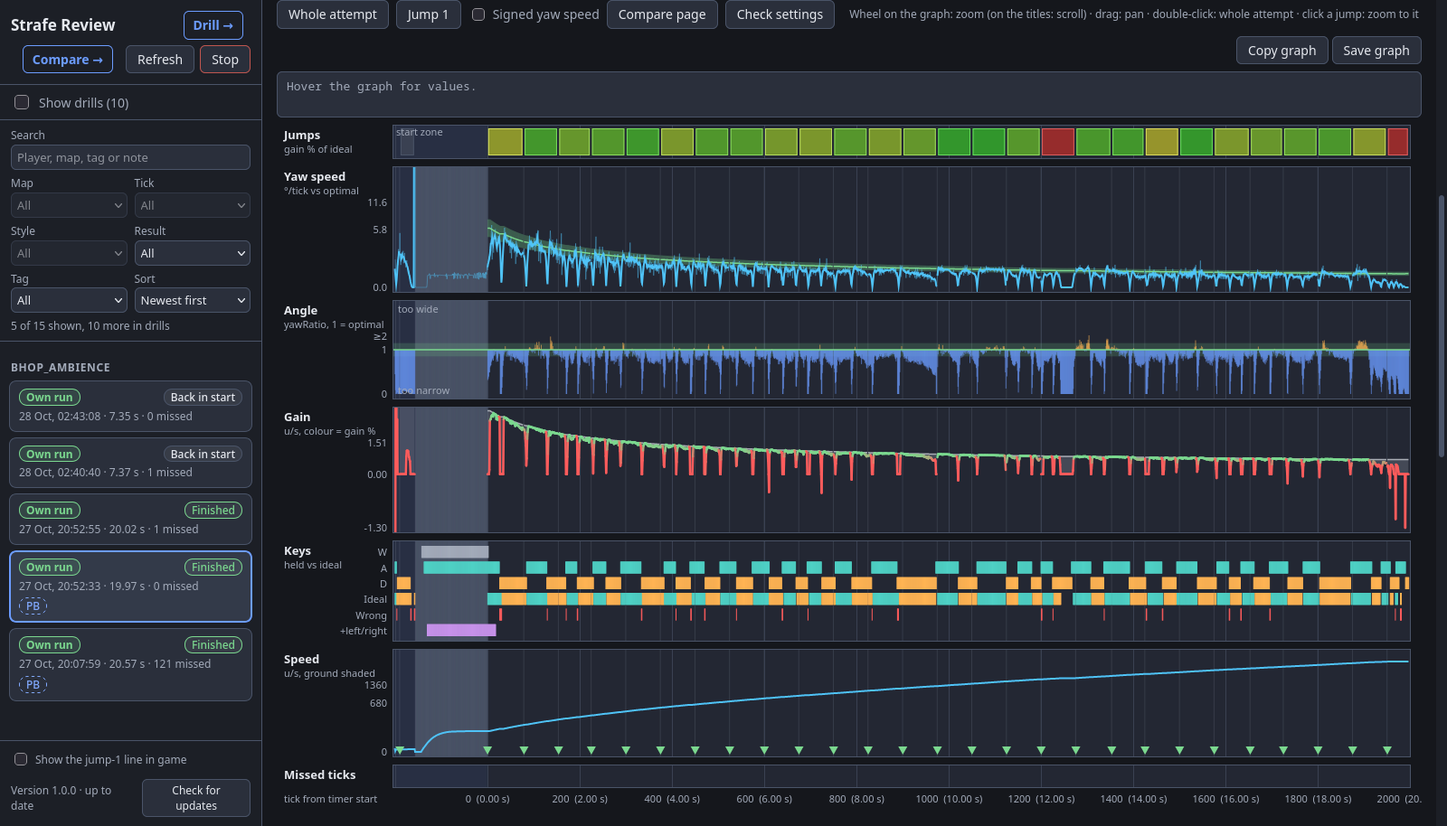
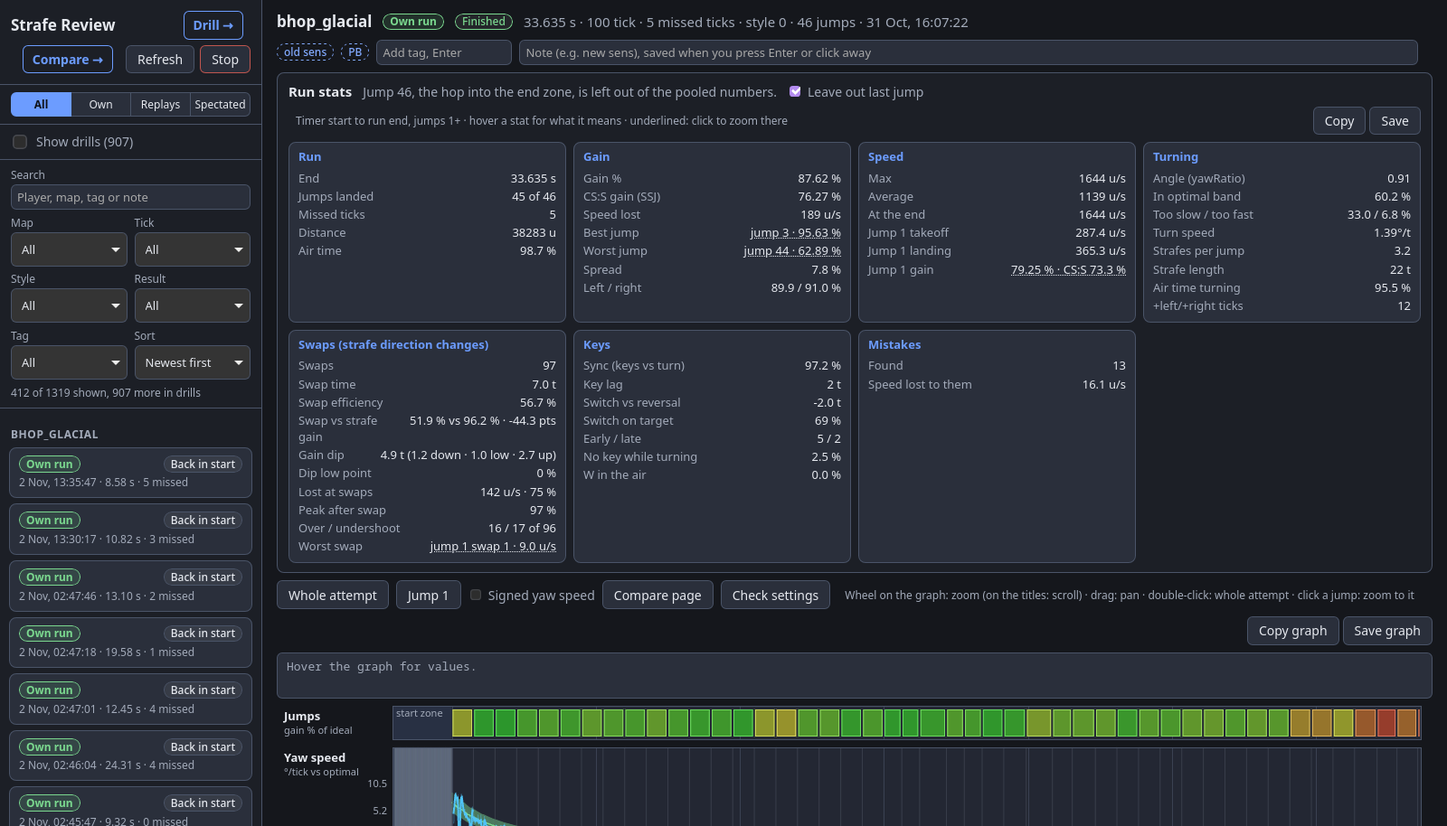
feat!: HUD settings move to the kit's folder, review page loses the jump-1 toggle (3.9)
hud/settings.py keeps the values in <data>/movekit/hud.json and reads
Strafe Review's old settings.json until the first save there, leaving
the old file alone for pre-bridge exes. The review page's sidebar
toggle and /api/settings are gone; the hub's HUD section is the only
place to set the line. Core 1.1.0, Strafe Review 1.7.0. The module
checks take the core version from CORE_VERSION.

diff --git a/strafe-review/viewer/static/index.html b/strafe-review/viewer/static/index.html
@@ -29,9 +29,6 @@
 		<div class="f-foot"><span id="f-count" class="muted"></span><button id="f-clear" title="Show every attempt again">Clear filters</button></div>
 	</div>
 	<div id="list"></div>
-	<div class="side-foot">
-		<div id="ingame"></div>
-	</div>
 </aside>
 <main id="main">
 	<header id="head"><span class="muted">Pick an attempt on the left.</span></header>
@@ -111,6 +108,5 @@
 <script src="/static/status.js"></script>
 <script src="/static/app.js"></script>
 <script src="/static/stop.js"></script>
-<script src="/static/ingame.js"></script>
 </body>
 </html>

diff --git a/strafe-review/recorder/panorama/scripts/hud/strafe-review.ts b/strafe-review/recorder/panorama/scripts/hud/strafe-review.ts
@@ -371,7 +371,7 @@ function onTargetChange(why: string) {
 
 const LINE_TAG = 'SRLINE';
 // Off by default, so it never lands on top of someone's own HUD. install.py rewrites this line from the
-// viewer's "Show the jump-1 line in game" switch; the SRLINE log line is written either way.
+// hub's HUD section ("Show the jump-1 line in game"); the SRLINE log line is written either way.
 const SHOW_LINE = false;
 const SHOW = { landing: true, gain: true, strafes: true, cause: true, mistake: true };
 const LINE_SECONDS = 4;

diff --git a/strafe-review/viewer/static/style.css b/strafe-review/viewer/static/style.css
@@ -307,7 +307,3 @@ body.stopped { align-items: center; justify-content: center; }
 .status-row.bad { border-color: #c0564f; }
 .status-row.bad b { color: #e06c64; }
 
-/* sidebar foot on the main page (the in-game line toggle, ingame.js) */
-#ingame { display: grid; gap: 6px; }
-.side-foot { margin-top: auto; padding: 10px 12px; border-top: 1px solid var(--border); display: grid; gap: 6px; font-size: 12px; }
-.upd-auto { display: flex; align-items: center; gap: 6px; color: var(--muted); cursor: pointer; }

diff --git a/strafe-review/viewer/server.py b/strafe-review/viewer/server.py
@@ -28,9 +28,6 @@ Routes:
                              last change), what the collector has seen, its last error, and
                              the movekit session's status if this process hosts it (else null)
   /api/events                server-sent events: "attempt" with {dir, id} when a new attempt is saved
-  GET /api/settings          {"inGameLine": bool}
-  POST /api/settings         {"inGameLine": bool}: saved, and written into the installed recorder
-                             (answers {"applied": false} when it isn't installed)
   POST /api/stop             stops this program (the page's Stop button); it starts again with the game
                              or by hand
   POST /api/meta/<map>/<id>  {"note": str, "tags": [str]}: sets the attempt's note and tags, answers
@@ -51,10 +48,9 @@ from pathlib import Path
 
 sys.path[:0] = [str(Path(__file__).resolve().parent.parent / "collector"), str(Path(__file__).resolve().parent.parent)]
 import collector
-import install
 
-from hud import settings as hud_settings  # collector set the path to the repo root
-from movekit import attempts as attempt_files  # and so to movekit
+# collector set the path to the repo root, and so to movekit
+from movekit import attempts as attempt_files
 from movekit import session
 
 STATIC = collector.ROOT / "viewer" / "static"
@@ -349,20 +345,6 @@ class Handler(BaseHTTPRequestHandler):
 
     def do_POST(self):
         parts = self.path.split("?", 1)[0].strip("/").split("/")
-        if parts == ["api", "settings"]:
-            if not self.local_request():
-                return self.fail(403, "forbidden")
-            try:
-                size = int(self.headers.get("Content-Length") or 0)
-                body = json.loads(self.rfile.read(size)) if 0 < size <= MAX_BODY else None
-                line = body["inGameLine"]
-                if not isinstance(line, bool):
-                    raise TypeError
-            except (ValueError, TypeError, KeyError):
-                return self.fail(400, 'expected {"inGameLine": true or false}')
-            hud_settings.save("inGameLine", line)
-            applied = bool(MOM_DIR) and install.apply_settings(MOM_DIR)
-            return self.send(200, json.dumps({**hud_settings.load(), "applied": applied}).encode(), "application/json")
         if parts == ["api", "stop"]:
             if not self.local_request():
                 return self.fail(403, "forbidden")
@@ -410,8 +392,6 @@ class Handler(BaseHTTPRequestHandler):
             return self.send(200, TOKENS.read_bytes(), "text/css; charset=utf-8")
         elif parts == ["api", "events"]:
             return self.events()
-        elif parts == ["api", "settings"]:
-            return self.send(200, json.dumps({"inGameLine": hud_settings.get("inGameLine")}).encode(), "application/json")
         elif parts == ["api", "status"]:
             return self.send(200, json.dumps(status(self)).encode(), "application/json")
         elif parts == ["api", "mouse"]:

diff --git a/movekit/check_modules.py b/movekit/check_modules.py
@@ -70,6 +70,9 @@ os.environ["MODCHECK_OUT"] = str(OUT)
 
 from movekit import modules  # after the path and environment above
 
+CORE = modules.CORE_VERSION
+_major, _minor, *_ = CORE.split(".")
+NEXT_CORE = f"{_major}.{int(_minor) + 1}.0"  # a hub-v* release newer than this core
 HOOK_NAMES = {"install", "uninstall", "stop", "start", "launch"}
 ALLOWED = (set(sys.stdlib_module_names) - {"tkinter", "turtle", "idlelib", "test", "ensurepip"}) \
     | {"movekit", "hud", "webview", "__future__"}
@@ -313,7 +316,7 @@ def check_manager():
 
     gh.release("alpha-v1.0.0", "alpha-module.zip", module_zip("alpha", "1.0.0"))
     gh.release("beta-v1.0.0", "beta-module.zip", module_zip("beta", "1.0.0", needs=["alpha"]))
-    gh.release("hub-v1.0.0")
+    gh.release(f"hub-v{CORE}")
     latest = mgr.check(force=True)
     expect(sorted(latest), ["alpha", "beta", "core"], "lines found")
     expect(latest["alpha"]["tag"], "alpha-v1.0.0", "alpha's newest release")
@@ -321,7 +324,7 @@ def check_manager():
     card = mgr.info("alpha")
     expect((card["installed"], card["can_install"], card["auto"]), (False, True, False),
            "alpha's card before install")
-    expect(mgr.info("core")["update"], False, "core 1.0.0 against hub-v1.0.0")
+    expect(mgr.info("core")["update"], False, f"core {CORE} against hub-v{CORE}")
 
     raises(lambda: mgr.install("beta"), "needs alpha", "beta before alpha")
     expect((kit / "beta").exists(), False, "beta's folder after the refused install")
@@ -392,11 +395,11 @@ def check_manager():
     # update_all takes every module with an update, then the core
     gh.release("alpha-v1.5.0", "alpha-module.zip", module_zip("alpha", "1.5.0"))
     gh.release("beta-v1.1.0", "beta-module.zip", module_zip("beta", "1.1.0", needs=["alpha"]))
-    gh.release("hub-v1.1.0")
+    gh.release(f"hub-v{NEXT_CORE}")
     mgr.check(force=True)
     expect(mgr.update_all(), {"alpha": None, "beta": None, "core": None}, "update_all")
     expect((mgr.version("alpha"), mgr.version("beta")), ("1.5.0", "1.1.0"), "versions after update_all")
-    expect([c["tag"] for c in core_installs], ["hub-v1.1.0"], "core installer calls")
+    expect([c["tag"] for c in core_installs], [f"hub-v{NEXT_CORE}"], "core installer calls")
     calls()
 
     # a swap that fails halfway (Windows: a file still in use) puts everything back

diff --git a/hud/check_hud.py b/hud/check_hud.py
@@ -42,9 +42,31 @@ def main():
         from movekit import hub
 
         # the store
-        expect(settings.file(), tmp / "data" / "strafe-review" / "settings.json", "settings file")
+        expect(settings.file(), tmp / "data" / "movekit" / "hud.json", "settings file")
+        old = tmp / "data" / "strafe-review" / "settings.json"
+        expect(settings.old_file(), old, "old settings file")
         expect(settings.load(), {"inGameLine": False}, "defaults with no file")
-        settings.file().parent.mkdir(parents=True)
+
+        # the old file (Strafe Review's data folder) counts until hud.json exists, and stays as it was
+        old.parent.mkdir(parents=True)
+        old.write_text("{not json")
+        expect(settings.get("inGameLine"), False, "a broken old file reads as defaults")
+        old.write_text('{"inGameLine": true, "kept": 1}')
+        expect(settings.get("inGameLine"), True, "value from the old file")
+        expect(settings.file().exists(), False, "reading doesn't write hud.json")
+        settings.save("inGameLine", False)
+        expect(json.loads(settings.file().read_text()), {"inGameLine": False, "kept": 1}, "first save carries the old keys")
+        expect(old.read_text(), '{"inGameLine": true, "kept": 1}', "old file after the first save")
+        old.write_text('{"inGameLine": true}')
+        expect(settings.get("inGameLine"), False, "the old file is ignored once hud.json exists")
+        settings.file().unlink()
+        old.unlink()
+        if (tmp / "data" / "strafe-review").exists():
+            (tmp / "data" / "strafe-review").rmdir()
+        settings.save("inGameLine", False)
+        expect((tmp / "data" / "strafe-review").exists(), False, "saving doesn't make Strafe Review's folder")
+        settings.file().unlink()
+        settings.file().parent.mkdir(parents=True, exist_ok=True)
         settings.file().write_text("{not json")
         expect(settings.get("inGameLine"), False, "a broken file reads as defaults")
         settings.file().write_text('{"inGameLine": "yes", "other": 3}')

diff --git a/movekit/check_linux_core.py b/movekit/check_linux_core.py
@@ -42,6 +42,8 @@ os.environ.pop("MOVEKIT_MODULES_API", None)
 from movekit import hub, launch, modules, paths  # after the environment above
 
 KIT = modules.core_kit()
+_major, _minor, _patch = modules.CORE_VERSION.split(".")
+NEXT_CORE = f"{_major}.{_minor}.{int(_patch) + 1}"  # a hub-v* release newer than this core
 BIN = Path(os.environ["HOME"]) / ".local" / "bin" / "movekit-run"
 
 
@@ -194,7 +196,7 @@ def check_launch_link():
 
 def check_core_update(gh):
     # a source archive like GitHub's: one top folder holding the repo, here with a marked core
-    src = TMP / "src" / "movement-kit-hub-v1.0.1"
+    src = TMP / "src" / f"movement-kit-hub-v{NEXT_CORE}"
     for d in ("movekit", "hud"):
         shutil.copytree(REPO / d, src / d, ignore=shutil.ignore_patterns("__pycache__"))
     shutil.copy(REPO / "LICENSE", src / "LICENSE")
@@ -202,9 +204,9 @@ def check_core_update(gh):
     buf = io.BytesIO()
     with tarfile.open(fileobj=buf, mode="w:gz") as tar:
         tar.add(src, arcname=src.name)
-    gh.add("hub-v1.0.1", tarball_url=None)
-    gh.releases[0]["tarball_url"] = gh.base + "/source/hub-v1.0.1.tar.gz"
-    gh.files["/source/hub-v1.0.1.tar.gz"] = buf.getvalue()
+    gh.add(f"hub-v{NEXT_CORE}", tarball_url=None)
+    gh.releases[0]["tarball_url"] = gh.base + f"/source/hub-v{NEXT_CORE}.tar.gz"
+    gh.files[f"/source/hub-v{NEXT_CORE}.tar.gz"] = buf.getvalue()
     keep = KIT / "keepme"
     keep.mkdir()
     (keep / "module.json").write_text("{}")
@@ -218,7 +220,7 @@ def check_core_update(gh):
         fail("the core update didn't copy the new core")
     if not (keep / "module.json").is_file():
         fail("the core update removed a module folder")
-    expect(mgr.state["modules"]["core"].get("installed"), "hub-v1.0.1", "the core update is marked")
+    expect(mgr.state["modules"]["core"].get("installed"), f"hub-v{NEXT_CORE}", "the core update is marked")
     expect(BIN.resolve(), (KIT / "movekit" / "movekit-run").resolve(), "movekit-run after the core update")
     shutil.rmtree(keep)
     gh.releases.clear()

diff --git a/hud/settings.py b/hud/settings.py
@@ -3,10 +3,11 @@
 Keys (bool unless noted; DEFAULTS has each one's value when unset):
   inGameLine   Strafe Review's recorder shows the jump-1 line (landing speed, gain, mistakes)
 
-The file is settings.json in Strafe Review's data folder (%LOCALAPPDATA%\\strafe-review on Windows,
-~/.local/share/strafe-review elsewhere), where the review page kept it before hud/ took it over.
-Installed strafe-review v1.5.0 exes read and write it there, so it stays until the hub release
-(PLAN.md 3.7). Keys this module doesn't know are kept as they are.
+The file is hud.json in the kit's data folder (%LOCALAPPDATA%\\movekit on Windows,
+~/.local/share/movekit elsewhere). Until the first save there, the values come from the old file,
+settings.json in Strafe Review's data folder, where the review page kept them before the HUD
+took them over (PLAN.md 3.9). The old file is left alone: a strafe-review v1.5.0 exe that hasn't
+updated yet still reads it. Keys this module doesn't know are kept as they are.
 
 Saving only stores a value; the tool that draws it writes it into the game (for the jump-1 line:
 strafe-review/recorder_settings.py).
@@ -20,12 +21,18 @@ DEFAULTS = {"inGameLine": False}
 
 
 def file():
+    return paths.data_dir("movekit") / "hud.json"
+
+
+def old_file():
+    """Where the values were kept before hud.json; read only while hud.json doesn't exist."""
     return paths.data_dir("strafe-review") / "settings.json"
 
 
 def _stored():
+    path = file() if file().exists() else old_file()
     try:
-        got = json.loads(file().read_text(encoding="utf-8"))
+        got = json.loads(path.read_text(encoding="utf-8"))
         return got if isinstance(got, dict) else {}
     except (OSError, ValueError):
         return {}

diff --git a/strafe-review/collector/collector.py b/strafe-review/collector/collector.py
@@ -36,7 +36,7 @@ def _bundled():
 
 # Strafe Review's folder, or the old exe's unpacked bundle (it holds recorder/ and viewer/static/ the same way)
 ROOT = Path(sys._MEIPASS) if _bundled() else Path(__file__).resolve().parent.parent
-VERSION = "1.6.0"  # Strafe Review's (module.json reads it); bump in the same commit as the release tag
+VERSION = "1.7.0"  # Strafe Review's (module.json reads it); bump in the same commit as the release tag
 GAME = steam.find_game()  # None if Momentum isn't found; then the game folder must be given
 STORE = attempts.store()
 LOG = os.path.join(GAME, "yaw.log") if GAME else None  # con_logfile, shared with Source Yaw's yaws.cfg

diff --git a/hub/hub_release.py b/hub/hub_release.py
@@ -5,6 +5,6 @@ The installed file keeps its name: a copy that came from Strafe Review's line is
 strafe-review.exe, because Steam's launch option points at that path; the core update takes EXE from
 the zip and puts it in under the running exe's name.
 """
-VERSION = "1.0.0"  # bump in the same commit as the hub-v* tag
+VERSION = "1.1.0"  # bump in the same commit as the hub-v* tag
 ASSET = "hub-windows.zip"  # windows-release.yml names the zip <tool>-windows.zip
 EXE = "movement-kit.exe"

diff --git a/movekit/modules.py b/movekit/modules.py
@@ -71,7 +71,7 @@ from pathlib import Path
 
 from movekit import paths, updater
 
-CORE_VERSION = "1.0.0"  # the hub-v* line; hub/hub_release.py's VERSION must match (check_modules)
+CORE_VERSION = "1.1.0"  # the hub-v* line; hub/hub_release.py's VERSION must match (check_modules)
 CORE = "core"
 CORE_PREFIX = "hub-v"
 CORE_ASSET = "hub-windows.zip"  # the core exe's release zip (Windows); Linux installs the source

diff --git a/PLAN.md b/PLAN.md
@@ -1,6 +1,6 @@
 # Soulmanyes's Movement Kit: plan
 
-Status (2026-11-02): Phase 0 done locally (the three repos merged with full history, tags renamed `<tool>-v*`, privacy hooks in place; no GitHub repo yet). Phase 1 nearly done locally: Steam/game discovery, autoexec blocks, VPK reading, bind parsing and the updater are in `movekit`, release CI sits at the root, and the root has a README and a CC0 LICENSE (see "Progress"). On GitHub since 2026-11-02, public since 2026-11-02 (via `/go-public`). The live installs run from the monorepo since 2026-11-02, and both tools write `// movekit:<tool>` blocks. Bridge releases out 2026-11-02 (Source Yaw v1.5.2, Strafe Review v1.4.1; the kit's first releases sourceyaw-v1.6.0, strafe-review-v1.5.0, gain-converter-v1.1.0). Left: archiving the old repos once a real install has moved. Phase 2 started: 2.1 (yaw.log reading, `movekit/logtail.py`) 2.2 (session core, `movekit/session.py`) and 2.3 (the Strafe Review server hosts the session and announces saved attempts) and 2.4 (the trainer and the crosshair watcher on the session, live) done. 2.5 (`movekit-run`, one launch option) done and live. 2.6 (attempt format 1 documented in `strafe-review/FORMAT.md`, reader `movekit/attempts.py`) done. Phase 3 (hub app): toolkit decided (pywebview settings window, review page stays in the browser), steps 3.1–3.8 OK'd; 3.1 (shell), 3.2 (Gain Converter section), 3.3 (HUD section), 3.4 (Strafe Review section), 3.5 (Source Yaw logic out of the window) and 3.6 (Source Yaw section, awaiting the owner's click test) done 2026-11-02; 3.7 and 3.7b (modules) released 2026-11-02 (`hub-v1.0.0`, every tool as a module). 3.8 (retire the old windows) released 2026-11-02 (`sourceyaw-v1.8.0`, `gain-converter-v1.3.0`). Left: the Windows hand test, the review page's jump-1 toggle, archiving the old repos.
+Status (2026-11-02): Phase 0 done locally (the three repos merged with full history, tags renamed `<tool>-v*`, privacy hooks in place; no GitHub repo yet). Phase 1 nearly done locally: Steam/game discovery, autoexec blocks, VPK reading, bind parsing and the updater are in `movekit`, release CI sits at the root, and the root has a README and a CC0 LICENSE (see "Progress"). On GitHub since 2026-11-02, public since 2026-11-02 (via `/go-public`). The live installs run from the monorepo since 2026-11-02, and both tools write `// movekit:<tool>` blocks. Bridge releases out 2026-11-02 (Source Yaw v1.5.2, Strafe Review v1.4.1; the kit's first releases sourceyaw-v1.6.0, strafe-review-v1.5.0, gain-converter-v1.1.0). Left: archiving the old repos once a real install has moved. Phase 2 started: 2.1 (yaw.log reading, `movekit/logtail.py`) 2.2 (session core, `movekit/session.py`) and 2.3 (the Strafe Review server hosts the session and announces saved attempts) and 2.4 (the trainer and the crosshair watcher on the session, live) done. 2.5 (`movekit-run`, one launch option) done and live. 2.6 (attempt format 1 documented in `strafe-review/FORMAT.md`, reader `movekit/attempts.py`) done. Phase 3 (hub app): toolkit decided (pywebview settings window, review page stays in the browser), steps 3.1–3.8 OK'd; 3.1 (shell), 3.2 (Gain Converter section), 3.3 (HUD section), 3.4 (Strafe Review section), 3.5 (Source Yaw logic out of the window) and 3.6 (Source Yaw section, awaiting the owner's click test) done 2026-11-02; 3.7 and 3.7b (modules) released 2026-11-02 (`hub-v1.0.0`, every tool as a module). 3.8 (retire the old windows) released 2026-11-02 (`sourceyaw-v1.8.0`, `gain-converter-v1.3.0`). 3.9 (the HUD's settings move to the kit's folder, the review page's jump-1 toggle goes) built 2026-11-02 on branch `hud-move`. Left: the Windows hand test, archiving the old repos.
 
 ## Goal
 
@@ -118,7 +118,7 @@ Toolkit and split decided by the owner 2026-11-02; steps 3.1–3.8 OK'd the same
 **Steps** (the old windows keep working throughout; checks: the existing ones plus a screenshot check of each new section):
 1. **3.1 Shell.** `movekit/hub.py`, section discovery, the `call` bridge, shared CSS, and `movekit/check_hub.py` (discovery, bridge and OS filter, run without a window). Install `python-pywebview`.
 2. **3.2 Gain Converter section.** The simplest section, so it proves the contract. It settles "gain math in one language": one JS module `movekit/web/gain.js` for every page. (Found in 3.2: the viewer has no copy of the conversion curve; its CSS-SSJ code scores ticks, a different calculation. So `gain.js` serves the section, and `gain_converter.py` keeps its copy until 3.8, held equal by `gain-converter/check_gain.py`.)
-3. **3.3 HUD section.** `hud/` takes over the jump-1 setting. The review page's sidebar toggle stays until the hub ships on Windows (3.7), then goes. (Done in 3.3: the settings file stays in Strafe Review's data folder until 3.7, because installed v1.5.0 exes read and write it there.)
+3. **3.3 HUD section.** `hud/` takes over the jump-1 setting. The review page's sidebar toggle stays until the hub ships on Windows (3.7), then goes. (Done in 3.3: the settings file stays in Strafe Review's data folder until 3.7, because installed v1.5.0 exes read and write it there. Both moved in 3.9.)
 4. **3.4 Strafe Review section.** Status, the updater, "Open review" (starts the server if it's down). (Done in 3.4: the viewer's colours come from `movekit/web/tokens.css`, the one copy.)
 5. **3.5 Source Yaw logic out of the window.** Most of it is already in `yawcore` (`load_settings`, `validate`, `apply`, `key_conflicts`, `set_autoexec`, `install_krosshair`, `recolor`). Still in `app.py`: `check_setup`'s problem text, `base_options`, `collect`, `trainer_value` and the trainer status. They move to `sourceyaw/settings_api.py`, and the GTK app calls it, with no change in behaviour.
 6. **3.6 Source Yaw section** over `settings_api`: key map with fallbacks, colours, sounds and previews. Linux-only for now; a Windows Source Yaw stays a later item.
@@ -342,7 +342,7 @@ Built and checked on Linux and in Windows CI; the `hub-v1.0.0` release, the brid
 Left:
 1. Done 2026-11-02: first Windows test builds passed (hub-windows on branch pushes, strafe-review-windows by hand on the branch: the shared workflow didn't regress). The licence step caught proxy_tools 0.1.0 with no licence file in its wheel; `hub/licenses/proxy-tools-LICENSE.txt` is its upstream LICENSE.txt (BSD), and the collector falls back to such kept copies. The exe also bundles the WebView2 SDK (Core/WinForms wrappers, WebView2Loader.dll; BSD-3, LICENSE and NOTICE from the NuGet package now in `hub/licenses/` and the zip), pywebview's own WebBrowserInterop DLLs, ClrLoader.dll and Python.Runtime.dll (covered by their packages), and the VC++ runtime (covered by PYTHON-LICENSE.txt). The step-2 stderr worry didn't happen. Was: a first test build: push the branch, run Actions > hub-windows by hand. From its log, check the licence list and what's under `webview/lib` (the WebView2 SDK DLLs, whose licence is Microsoft's and not in any package metadata), and fix `THIRD-PARTY-NOTICES.txt` to match. License check before any tag. Also run `strafe-review-windows` by hand, since `windows-release.yml` changed. Only Windows can show: a `--windowed` exe may have no stderr even when piped, so step 2's `"in use" in r.stderr` may fail there (then read `strafe-review.log` instead).
 2. The bridge: the last `strafe-review-v*` release ships the hub exe as `strafe-review.exe` in `strafe-review-windows.zip`, so installed 1.5.0 copies update into the hub. Then `strafe-review-windows.yml` builds with `hub/build.py` and renames the exe. Waits until the first migration (old repo to kit) is confirmed on a real install, as in Phase 1.
-3. After the bridge: move `settings.json` out of Strafe Review's data folder (`hud/settings.py` reads the old file once as a fallback) and take the jump-1 toggle out of the review page's sidebar (3.3).
+3. Done in 3.9: after the bridge, move `settings.json` out of Strafe Review's data folder (`hud/settings.py` reads the old file once as a fallback) and take the jump-1 toggle out of the review page's sidebar (3.3).
 4. Done 2026-11-02: `strafe-review/check_hub_section.py` passed on the branch. At the merge the temporary `branches: ["hub-release"]` push trigger came out of `hub-windows.yml`; test builds now go through Actions > hub-windows > Run workflow.
 5. The `hub-v1.0.0` release (ask the owner first). Nobody has tested the hub exe by hand on Windows yet.
 
@@ -460,7 +460,18 @@ The owner said go ahead on 2026-11-02, the same day the hub shipped, without the
 - Versions: Source Yaw 1.8.0, Gain Converter 1.3.0. No Strafe Review or hub change, so no bridge release is needed.
 - Checked: every `check_*.py` and `check_gain.py` passes. A temp HOME with a `sourceyaw-v1.7.0` install, updated by the new `install.sh`: `updater.py` and `icons/` gone, `app.py` is the launcher, the menu entry and `~/.local/bin/sourceyaw` point at it, and `--uninstall` cleans up. The launcher finds both a checkout hub (from the menu entry, with a space in the path) and an installed core. Both module zips built locally: `read_manifest` and `module_version` give 1.8.0 and 1.3.0, and `hub.discover` finds both sections with no problems. Screenshots for both READMEs were retaken from the hub, as floating test windows with a temp HOME and a fake CS:S install.
 - Released 2026-11-02: `sourceyaw-v1.8.0` and `gain-converter-v1.3.0` (module zips only, CI green, notes written by hand); the module manager sees both. A Windows test build of the hub on the branch passed first. The live Source Yaw was reinstalled from main, so its menu entry opens the hub.
-- Left: the jump-1 toggle in the review page's sidebar (PLAN 3.3: goes once the hub ships on Windows), which needs a Strafe Review release with the bridge.
+- Left: the jump-1 toggle in the review page's sidebar (PLAN 3.3: goes once the hub ships on Windows), which needs a Strafe Review release with the bridge. Done in 3.9.
+
+### Phase 3.9: the HUD settings move, the review page's toggle goes (2026-11-02; branch `hud-move`)
+
+The owner picked both on 2026-11-02, before the Windows hand test. The hub shipped on Windows as `hub-v1.0.0`, the condition 3.3 named.
+
+- **HUD settings file.** `hud/settings.py` keeps the values in `hud.json` in the kit's data folder (`paths.data_dir("movekit")`, next to `modules.json`). While `hud.json` doesn't exist, it reads Strafe Review's old `settings.json`, unknown keys included; the first save writes `hud.json`, and from then on the old file is ignored. The old file is never changed or deleted, because a strafe-review v1.5.0 exe that hasn't updated yet still reads it. Saving no longer creates Strafe Review's data folder. That matters on Windows, where `migrate()` installs the Strafe Review module when that folder exists.
+- **Review page.** `static/ingame.js`, the sidebar foot (`#ingame`, `.side-foot`, `.upd-auto`) and `GET/POST /api/settings` are gone. The hub's HUD section is the only place to set the line. `server.py` no longer imports `install` or `hud.settings`. `install.apply_settings` stays: the install and the HUD section use it.
+- **Versions.** Core 1.1.0 (`hub/hub_release.py`, `modules.CORE_VERSION`), Strafe Review 1.7.0. `needs_core` stays 1.0.0. Both mixes work: an old Strafe Review server on the new core reads `hud.settings` from the core, and the new module on the old core has nothing that needs it. The Strafe Review tag must carry the bridge zip (`strafe-review-windows.yml`).
+- `check_modules.py` and `check_linux_core.py` take the core version from `modules.CORE_VERSION` instead of a fixed 1.0.0, so a core bump doesn't break them.
+- Checked: `check_hud.py` covers the old file only (and broken), the first save carrying the old keys while the old file stays, the old file ignored once `hud.json` exists, and a save not creating Strafe Review's folder. Mutations (always the old file, never the old file, the old file first, saving to the old file) make it fail. Every other `check_*.py` and the viewer's JS checks pass, and so does `hub/smoke_test.py --repo` (run with the live server stopped). The README screenshot was retaken from the live server through a WebKit2GTK snapshot.
+- Live: the server was restarted on the new code through the section's `start()`. It's a transient `systemd-run` unit, so `systemctl --user start` can't bring it back. It reads `inGameLine: true` from the old file until the next save.
 
 ### Notes for later steps
 
@@ -474,7 +485,7 @@ The owner said go ahead on 2026-11-02, the same day the hub shipped, without the
 - Hub (3.1): colour tokens were copied between `hub.css` and the viewer's `style.css`. Done in 3.4: one copy in `movekit/web/tokens.css`.
 - Hub (3.1): hub pages come from their own localhost port. The session on 8766 already sends `Access-Control-Allow-Origin` for localhost origins, so SSE from a section page works as is.
 - Hub (3.1): `local_import` loads one file by path. A helper that imports a sibling with a plain `import x` still fails, so 3.5's `settings_api.py` must load its siblings the same way (or through `movekit`).
-- HUD (3.3): moving `settings.json` out of Strafe Review's data folder (to a kit or hud folder) waits for 3.7, when installed exes become the hub. Then `hud/settings.py` reads the old file once as a fallback.
+- HUD (3.3, done in 3.9): moving `settings.json` out of Strafe Review's data folder (to a kit or hud folder) waits for 3.7, when installed exes become the hub. Then `hud/settings.py` reads the old file once as a fallback.
 - Source Yaw (3.5): `settings_api.trainer_config` merges the saved `tickrate` per game over the defaults, as the window always did; `trainer.settings()` (the in-game trainer) doesn't. Left as is, since changing it would change the trainer.
 - Source Yaw (3.8, done): the `app.py` copies of the notes and Source Yaw's own updater went with the GTK window.
 - Source Yaw section (3.6): load the API with `local_import(__file__, "settings_api")`. It needs Pillow and the trainer's Linux modules, so keep the section Linux-only.
